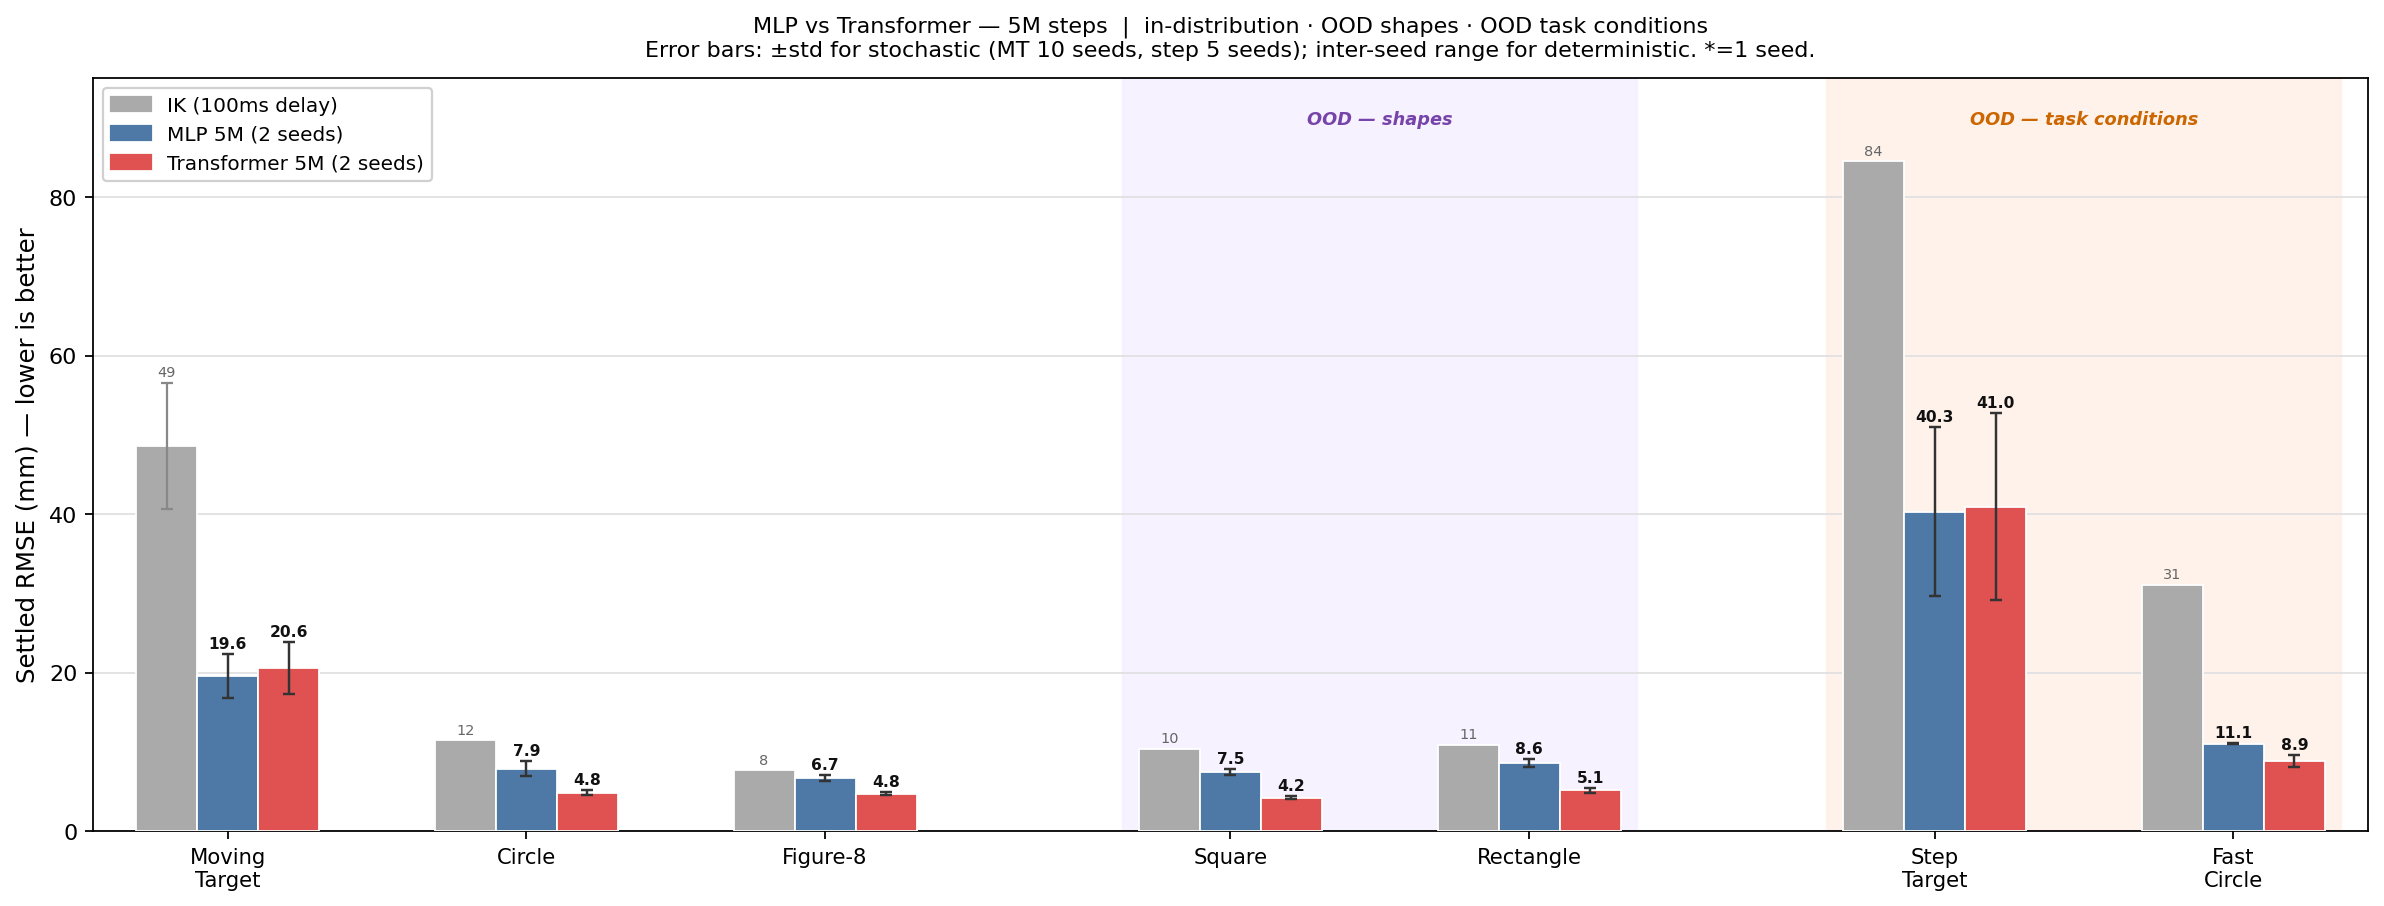
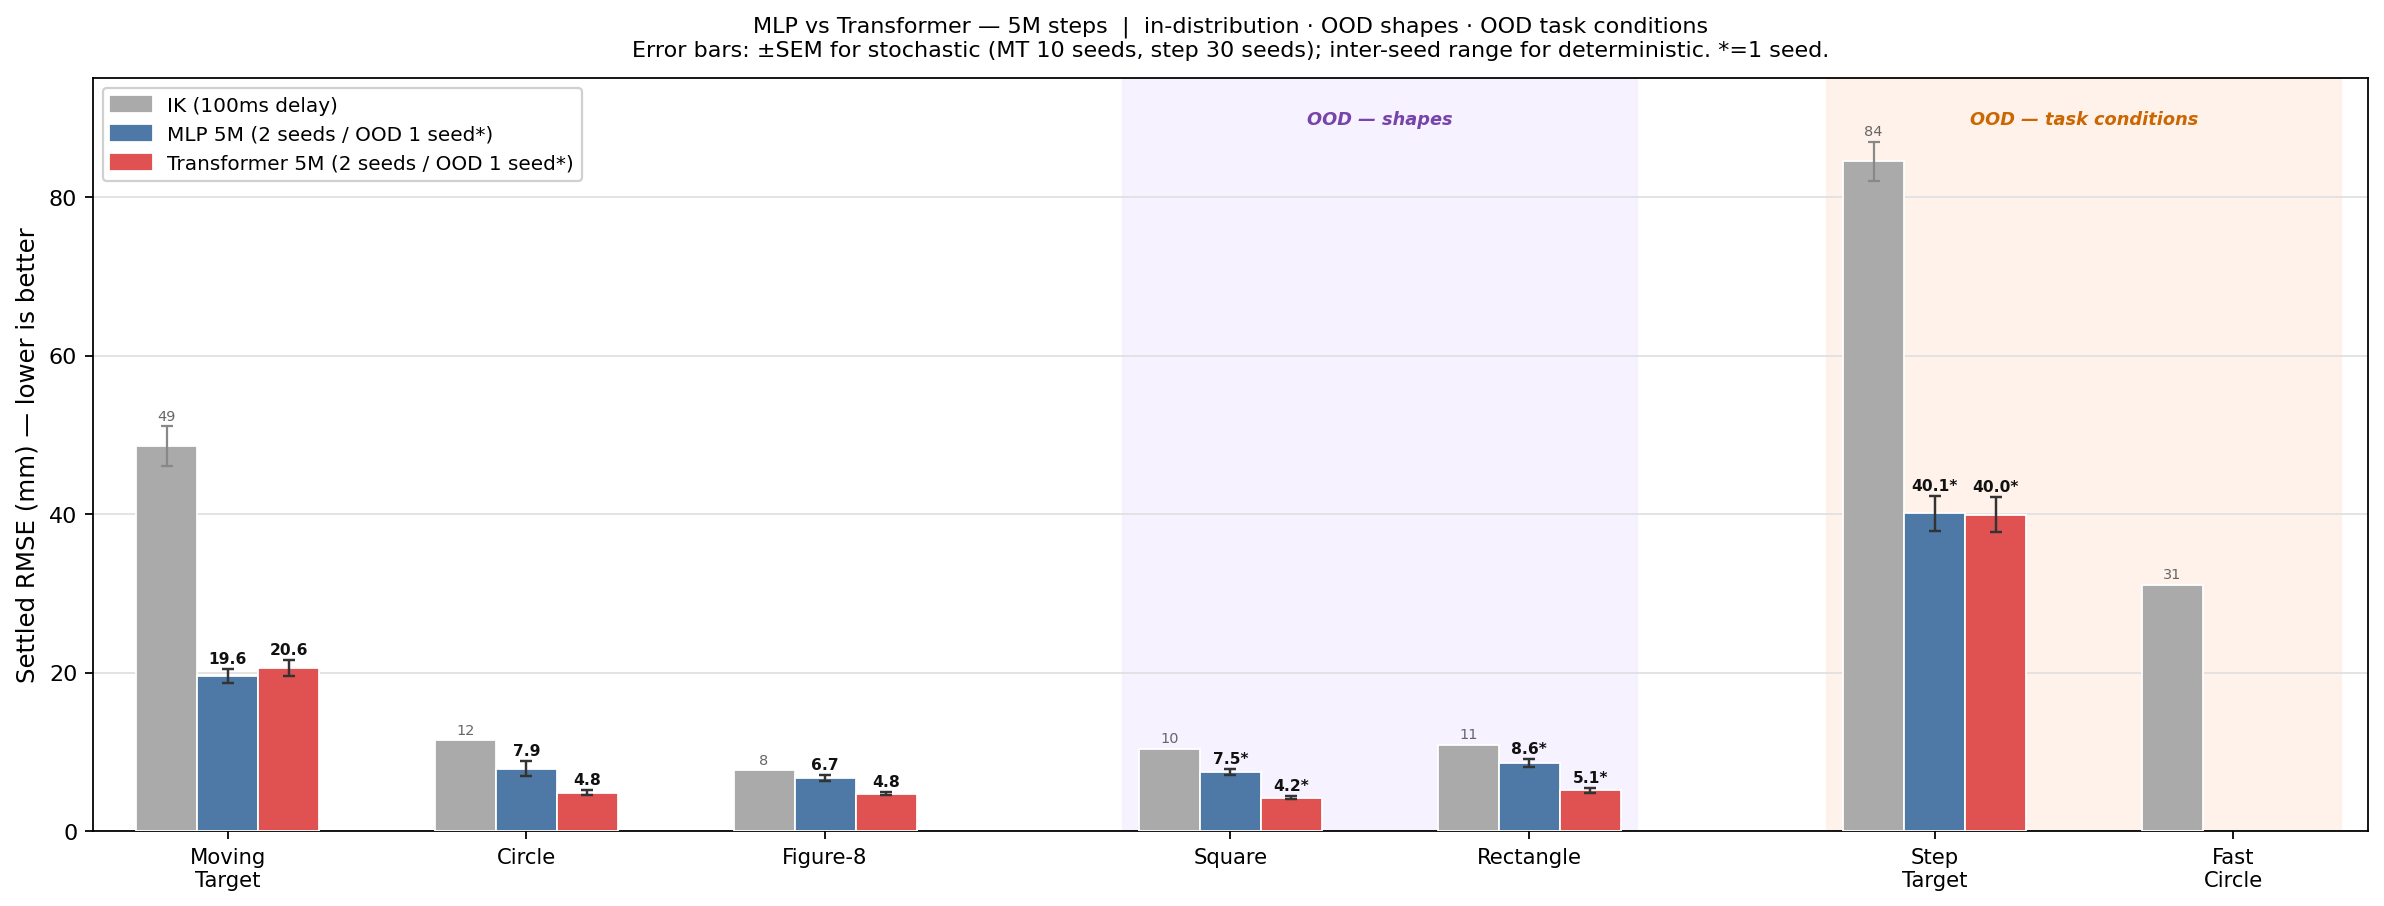
Eval: 30-seed step_target, switch to ±SEM error bars
- Re-run step_target with n=30 seeds for all 4 models (was 10)
- Switch error bar logic: std → SEM (std/sqrt(n))
  Step Target bars: ±12mm → ±2.5mm; Moving Target: ±8mm → ±2.5mm
- Update chart title and README caption to say ±SEM
- IK error bars for stochastic tasks also switched to SEM

diff --git a/scripts/make_comparison_bars.py b/scripts/make_comparison_bars.py
@@ -29,10 +29,10 @@ MODELS = {
             "results/sweep/rs012_5M/eval_ood",
             "results/sweep/rs012_seed1_5M/eval_ood",
         ],
-        # step_target + fast_circle (5-seed mean)
+        # step_target (30-seed, fast_circle falls back to 10-seed for deterministic)
         "ood2_eval_dirs": [
-            "results/sweep/rs012_5M/eval_ood2",
-            "results/sweep/rs012_seed1_5M/eval_ood2",
+            "results/sweep/rs012_5M/eval_ood2_30s",
+            "results/sweep/rs012_seed1_5M/eval_ood2_30s",
         ],
     },
     "transformer": {
@@ -40,15 +40,15 @@ MODELS = {
         "color": "#e05252",
         "indist_eval_dirs": [
             "results/eval/tfm_5M_s42_multi",
-            "results/eval/tfm_5M_s1_multi",   # populated after s1 training completes
+            "results/eval/tfm_5M_s1_multi",
         ],
         "ood_eval_dirs": [
             "results/main_runs/tfm_no_xattn_5M_s42/eval_ood",
-            "results/main_runs/tfm_no_xattn_5M_s1/eval_ood",  # after s1 completes
+            "results/main_runs/tfm_no_xattn_5M_s1/eval_ood",
         ],
         "ood2_eval_dirs": [
-            "results/main_runs/tfm_no_xattn_5M_s42/eval_ood2",
-            "results/main_runs/tfm_no_xattn_5M_s1/eval_ood2",  # after s1 completes
+            "results/main_runs/tfm_no_xattn_5M_s42/eval_ood2_30s",
+            "results/main_runs/tfm_no_xattn_5M_s1/eval_ood2_30s",
         ],
     },
 }
@@ -71,9 +71,11 @@ IK_MM = {
     "step_target":   84.5,   # 5-seed mean
     "fast_circle":   31.1,   # 5-seed mean (deterministic each seed)
 }
-IK_STD = {
-    "moving_target": 8.0,
-    "step_target":   0.0,    # approx — not stored separately but close to 0
+# IK error bars as SEM (std / sqrt(n)) — same n as the model evals
+# moving_target: std=8.0, n=10 → SEM≈2.5; step_target: std=13.5, n=30 → SEM≈2.5
+IK_SEM = {
+    "moving_target": round(8.0  / (10 ** 0.5), 2),   # ≈ 2.53
+    "step_target":   round(13.5 / (30 ** 0.5), 2),   # ≈ 2.47
 }
 
 
@@ -85,11 +87,17 @@ def load_eval(eval_dir: str) -> dict | None:
 
 
 def get_rmse(data: dict, traj: str) -> tuple[float | None, float | None]:
-    """Return (mean, std_or_None) from an ablation.json entry."""
+    """Return (mean, sem_or_None) from an ablation.json entry.
+
+    Uses SEM = std / sqrt(n) so error bars show uncertainty in the mean,
+    not the spread of individual episodes.
+    """
     t = data.get(traj, {})
     mean = t.get("residual_settled_rmse_mm")
     std  = t.get("residual_settled_rmse_mm_std")
-    return mean, std
+    n    = t.get("residual_settled_rmse_mm_n")
+    sem  = (std / np.sqrt(n)) if (std is not None and n and n > 1) else None
+    return mean, sem
 
 
 OOD_SHAPE_TRAJS = ["square", "rectangle"]
@@ -178,13 +186,13 @@ def main():
     # IK bars
     for i, traj in enumerate(ALL_TRAJS):
         ik_val = IK_MM[traj]
-        ik_std = IK_STD.get(traj)
+        ik_sem = IK_SEM.get(traj)
         xi = x_base[i] + offsets[0]
-        yerr = [[ik_std], [ik_std]] if ik_std else None
+        yerr = [[ik_sem], [ik_sem]] if ik_sem else None
         ax.bar(xi, ik_val, width=bar_w, color=ik_color, edgecolor="white",
                lw=0.8, zorder=3, yerr=yerr,
                error_kw=dict(ecolor="#888888", lw=1.0, capsize=2.5, capthick=1.0))
-        top = ik_val + (ik_std if ik_std else 0)
+        top = ik_val + (ik_sem if ik_sem else 0)
         ax.text(xi, top + 0.4, f"{ik_val:.0f}",
                 ha="center", va="bottom", fontsize=6.5, color="#666666")
     legend_patches.append(mpatches.Patch(color=ik_color, label="IK (100ms delay)"))
@@ -244,7 +252,7 @@ def main():
     ax.set_ylabel("Settled RMSE (mm) — lower is better", fontsize=11)
     ax.set_title(
         "MLP vs Transformer — 5M steps  |  in-distribution · OOD shapes · OOD task conditions\n"
-        "Error bars: ±std for stochastic (MT 10 seeds, step 5 seeds); inter-seed range for deterministic. *=1 seed.",
+        "Error bars: ±SEM for stochastic (MT 10 seeds, step 30 seeds); inter-seed range for deterministic. *=1 seed.",
         fontsize=10, pad=10)
     ax.legend(handles=legend_patches, fontsize=9, framealpha=0.92, loc="upper left")
     ax.grid(axis="y", color="#e0e0e0", lw=0.8, zorder=0)

diff --git a/README.md b/README.md
@@ -10,7 +10,7 @@
 
 ![RMSE comparison](results/figures/comparison_5M_bars.png)
 
-Settled RMSE (mm) — lower is better. Shaded regions mark out-of-distribution trajectories never seen during training. Error bars: ±std for stochastic tasks (MT 10 seeds, Step 5 seeds); inter-seed range for deterministic. †=1 seed.
+Settled RMSE (mm) — lower is better. Shaded regions mark out-of-distribution trajectories never seen during training. Error bars: ±SEM for stochastic tasks (MT 10 seeds, Step 30 seeds); inter-seed range for deterministic. †=1 seed.
 
 | Model | Steps | Moving Target† | Circle | Figure-8 |
 |---|---|---|---|---|